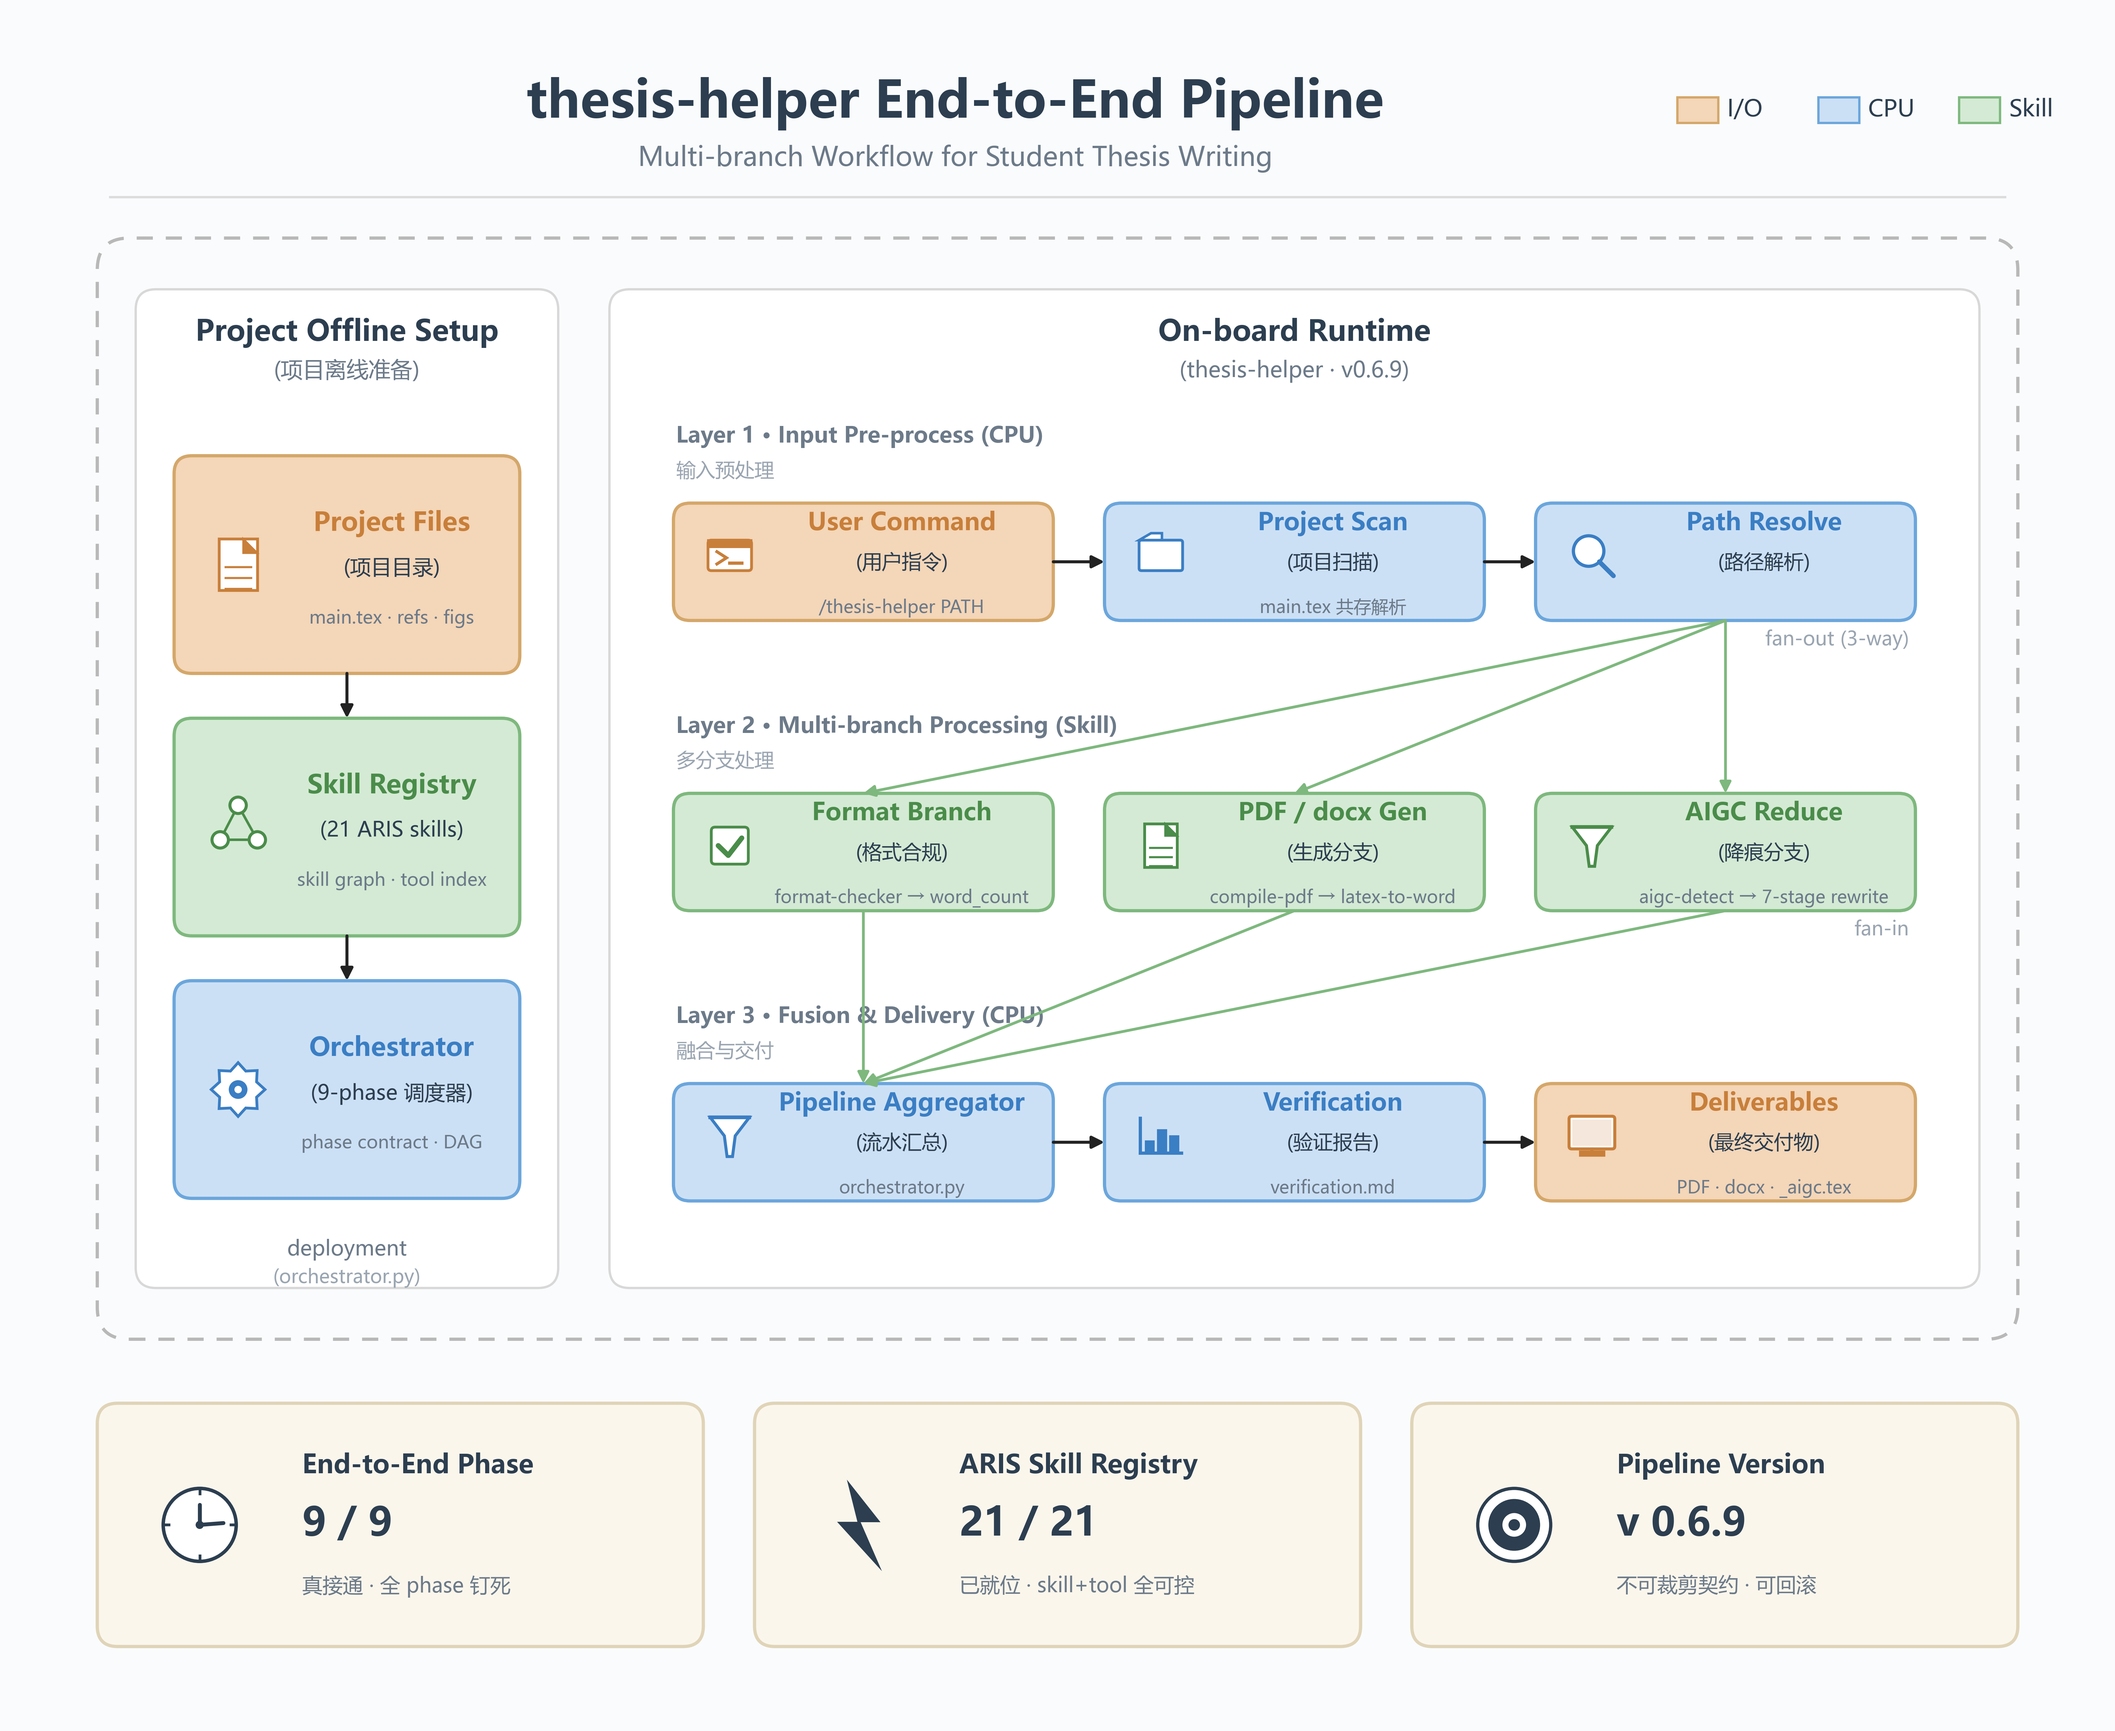
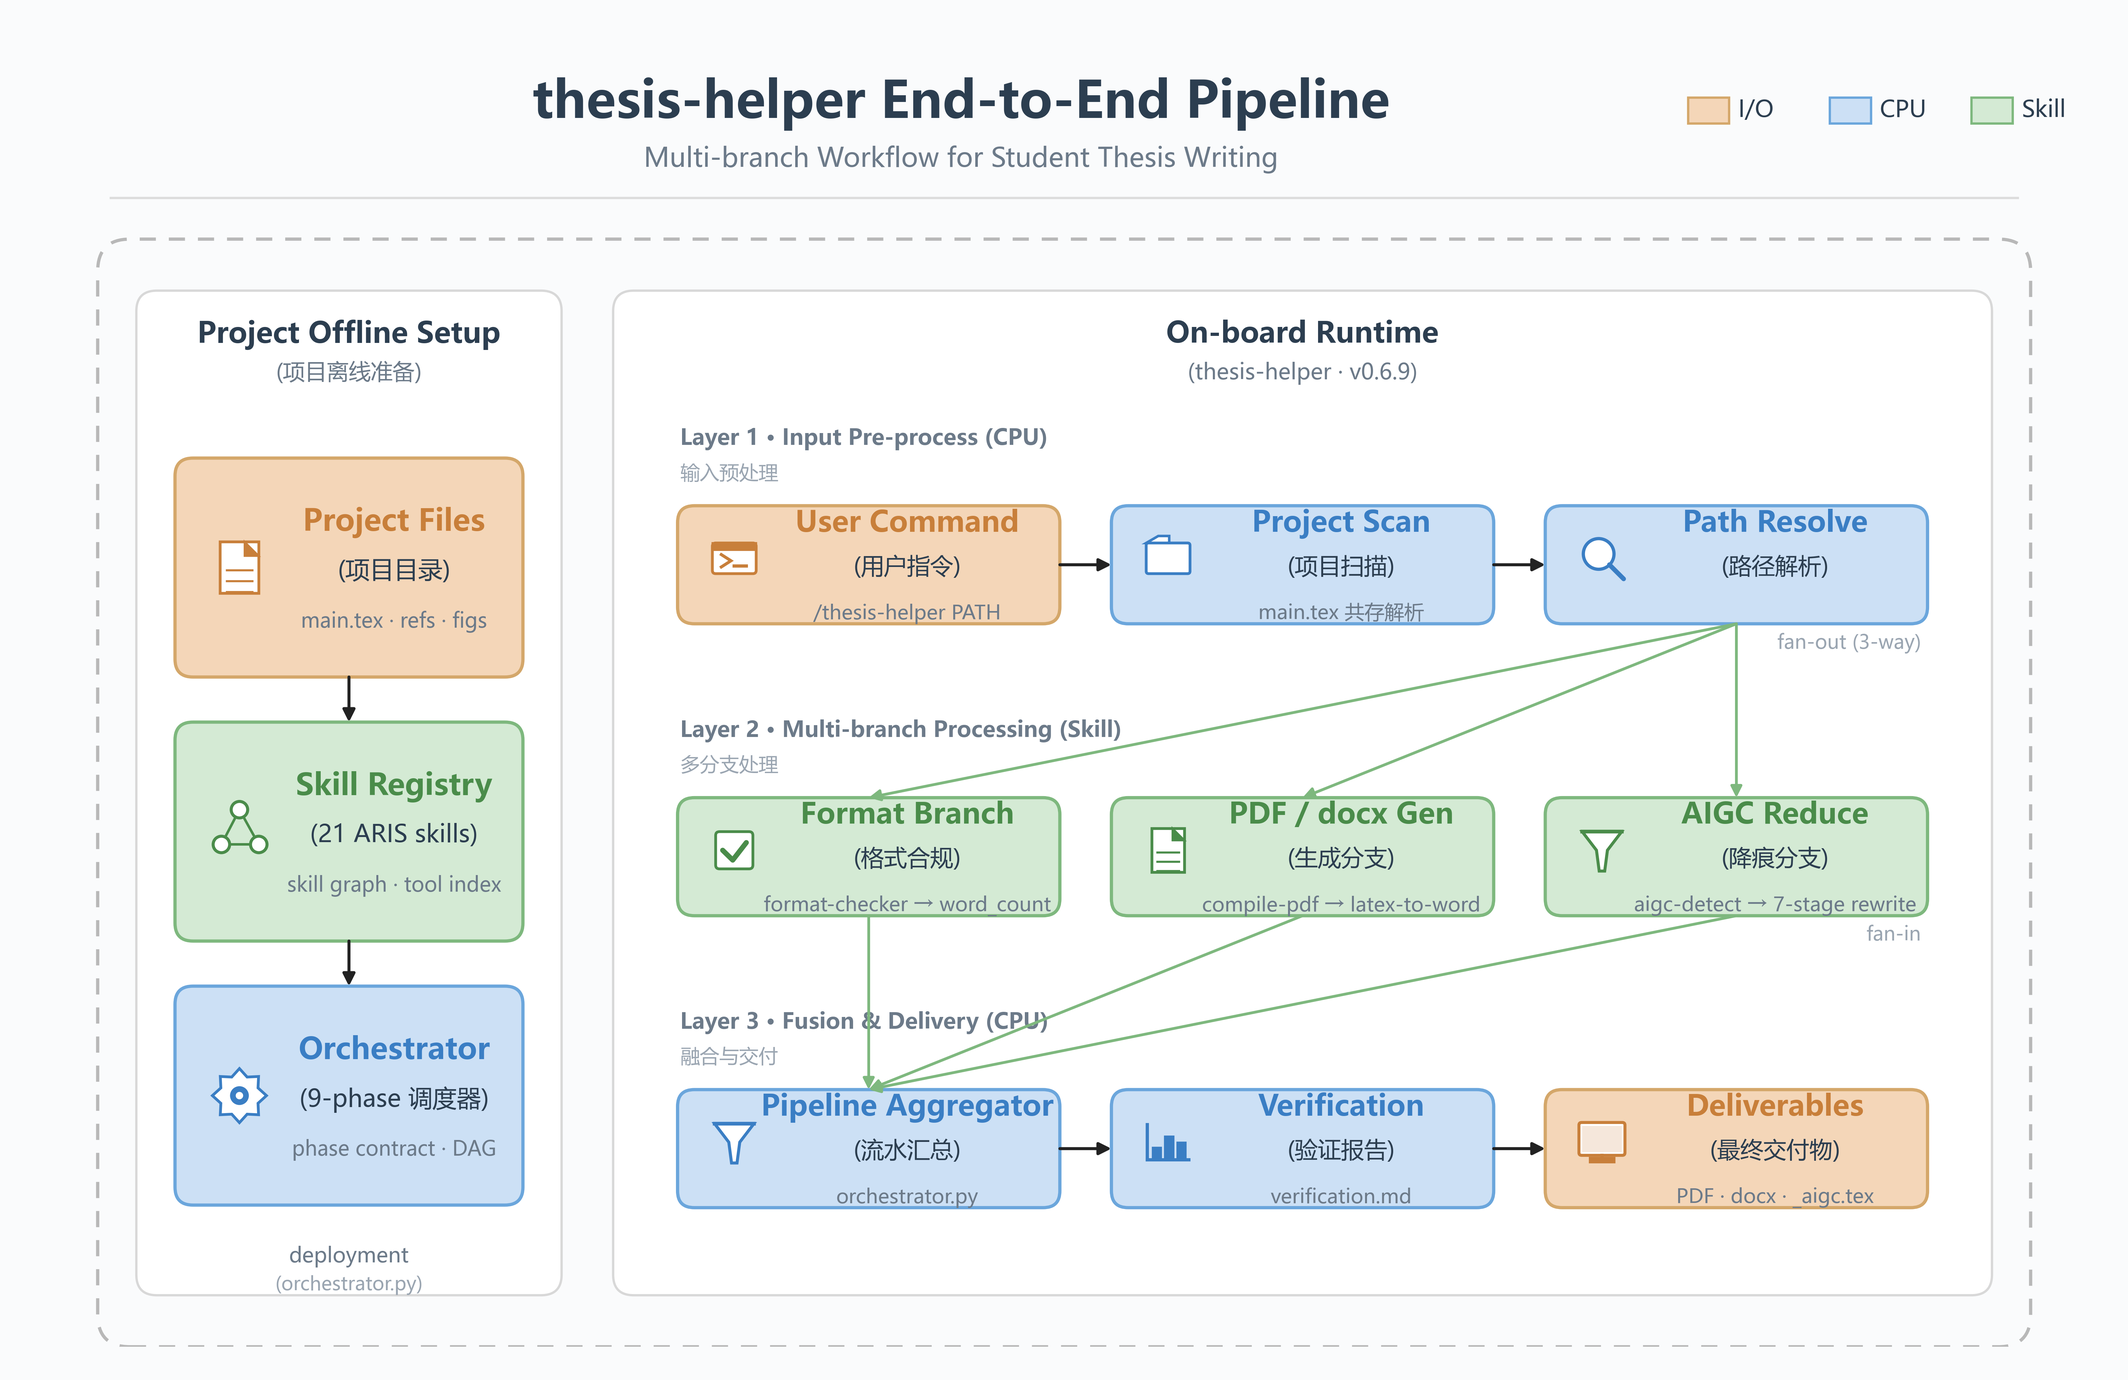
fix: v0.6.11 — Variant E 裁底部 KPI + 卡内字号放大 17%
用户反馈两处：
  ① 底部 3 张 KPI 卡 (End-to-End Phase / ARIS Skill Registry / Pipeline
     Version) 可裁掉，主体两栏 panel 已自带版本号
  ② 卡内字号偏小，要加大但不能超框

修复：

[1] 删除 KPI 块
  - 移除 lines 738-781 整段 (3 张卡 + 渲染循环)
  - figsize: (16, 13) → (16, 10.5)
  - ylim: (0, 130) → (28, 130) 裁掉下方 28 单位空白

[2] 卡内字号放大（保留布局，无超框）
  左 panel 卡：
    title  11.2 → 13.0  (+16%)
    sub     9.0 → 10.5  (+17%)
    tail    7.8 →  8.8  (+13%)
  右 panel 子层卡：
    title  10.5 → 12.5  (+19%)
    sub     8.6 → 10.0  (+16%)
    tail    7.6 →  8.6  (+13%)

实测渲染 PNG 995 KB · 中文/英文均无超框，字号清晰可读。

diff --git a/Paper_Writing/thesis-helper/diagrams/variant-E-render.py b/Paper_Writing/thesis-helper/diagrams/variant-E-render.py
@@ -72,9 +72,9 @@ FANOUT_COLOR = '#7eb87e'
 FANIN_COLOR  = '#7eb87e'
 
 # ---------- canvas ----------
-fig, ax = plt.subplots(figsize=(16, 13), dpi=220)
+fig, ax = plt.subplots(figsize=(16, 10.5), dpi=220)
 ax.set_xlim(0, 160)
-ax.set_ylim(0, 130)
+ax.set_ylim(28, 130)  # 下界 28 → 裁掉原 KPI 卡区 (0-23)
 ax.set_aspect('equal')
 ax.axis('off')
 fig.patch.set_facecolor(BG)
@@ -502,15 +502,15 @@ for cy, spec in zip(left_card_cy, left_specs):
     render_icon(spec['icon'], ax, icon_cx, icon_cy, s=2.0,
                 color=spec['txt'])
     # title (right of icon, top line)
-    ax.text(left_card_cx + 3.5, cy + 3.2,
+    ax.text(left_card_cx + 3.5, cy + 3.5,
             spec['title'], ha='center', va='center',
-            fontsize=11.2, fontweight='bold', color=spec['txt'], zorder=3)
+            fontsize=13.0, fontweight='bold', color=spec['txt'], zorder=3)
     ax.text(left_card_cx + 3.5, cy - 0.3,
             spec['sub'], ha='center', va='center',
-            fontsize=9.0, color=TXT_DARK, zorder=3)
+            fontsize=10.5, color=TXT_DARK, zorder=3)
     ax.text(left_card_cx + 3.5, cy - 4.2,
             spec['tail'], ha='center', va='center',
-            fontsize=7.8, color=TXT_GREY, fontstyle='italic', zorder=3)
+            fontsize=8.8, color=TXT_GREY, fontstyle='italic', zorder=3)
 
 # arrows between left cards
 for i in range(2):
@@ -577,19 +577,19 @@ def card_row(ax, x0, w_total, y_center, n, card_h, specs):
         render_icon(spec['icon'], ax, icon_cx, icon_cy, s=1.7,
                     color=spec['txt'])
         # title
-        ax.text(cx + 3.0, y_center + 3.0,
+        ax.text(cx + 3.0, y_center + 3.2,
                 spec['title'], ha='center', va='center',
-                fontsize=10.5, fontweight='bold', color=spec['txt'],
+                fontsize=12.5, fontweight='bold', color=spec['txt'],
                 zorder=4)
         # cn sub
-        ax.text(cx + 3.0, y_center - 0.1,
+        ax.text(cx + 3.0, y_center - 0.2,
                 spec['sub'], ha='center', va='center',
-                fontsize=8.6, color=TXT_DARK, zorder=4)
+                fontsize=10.0, color=TXT_DARK, zorder=4)
         # tail
         if spec.get('tail'):
-            ax.text(cx + 3.0, y_center - 3.6,
+            ax.text(cx + 3.0, y_center - 3.8,
                     spec['tail'], ha='center', va='center',
-                    fontsize=7.6, color=TXT_GREY, fontstyle='italic',
+                    fontsize=8.6, color=TXT_GREY, fontstyle='italic',
                     zorder=4)
         centers.append((cx, card_w))
     return centers
@@ -736,49 +736,10 @@ for i in range(2):
 
 
 # =============================================================
-# 3. BOTTOM KPI cards
+# 3. BOTTOM KPI cards — REMOVED per user request (v0.6.11)
+#    用户反馈：底部 3 张 KPI 卡可裁，主体两栏 panel 已自带版本号
+#    保留 ylim 不变，下方留白由 bbox_inches='tight' 自动裁掉
 # =============================================================
-KPI_Y0 = 4
-KPI_H  = 19
-KPI_TOTAL_W = 150
-KPI_X0 = 5
-KPI_GAP = 4
-KPI_W = (KPI_TOTAL_W - 2 * KPI_GAP) / 3
-
-kpis = [
-    dict(icon='clock',
-         title='End-to-End Phase', value='9 / 9',
-         note='真接通 · 全 phase 钉死'),
-    dict(icon='lightning',
-         title='ARIS Skill Registry', value='21 / 21',
-         note='已就位 · skill+tool 全可控'),
-    dict(icon='target',
-         title='Pipeline Version', value='v 0.6.9',
-         note='不可裁剪契约 · 可回滚'),
-]
-
-for i, k in enumerate(kpis):
-    x = KPI_X0 + i * (KPI_W + KPI_GAP)
-    cx = x + KPI_W / 2
-    cy = KPI_Y0 + KPI_H / 2
-    card(ax, cx, cy, KPI_W, KPI_H, KPI_FILL, KPI_EDGE,
-         lw=1.4, zorder=2, rounding=1.6)
-    # icon left (drawn primitive)
-    icon_cx = x + 8.0
-    icon_cy = cy
-    render_icon(k['icon'], ax, icon_cx, icon_cy, s=3.0, color=TXT_DARK)
-    # title
-    ax.text(x + 16, cy + 4.6,
-            k['title'], ha='left', va='center',
-            fontsize=11.2, fontweight='bold', color=TXT_DARK, zorder=4)
-    # value
-    ax.text(x + 16, cy + 0.0,
-            k['value'], ha='left', va='center',
-            fontsize=17, fontweight='bold', color=TXT_DARK, zorder=4)
-    # note
-    ax.text(x + 16, cy - 4.8,
-            k['note'], ha='left', va='center',
-            fontsize=8.8, fontstyle='italic', color=TXT_GREY, zorder=4)
 
 
 # =============================================================
